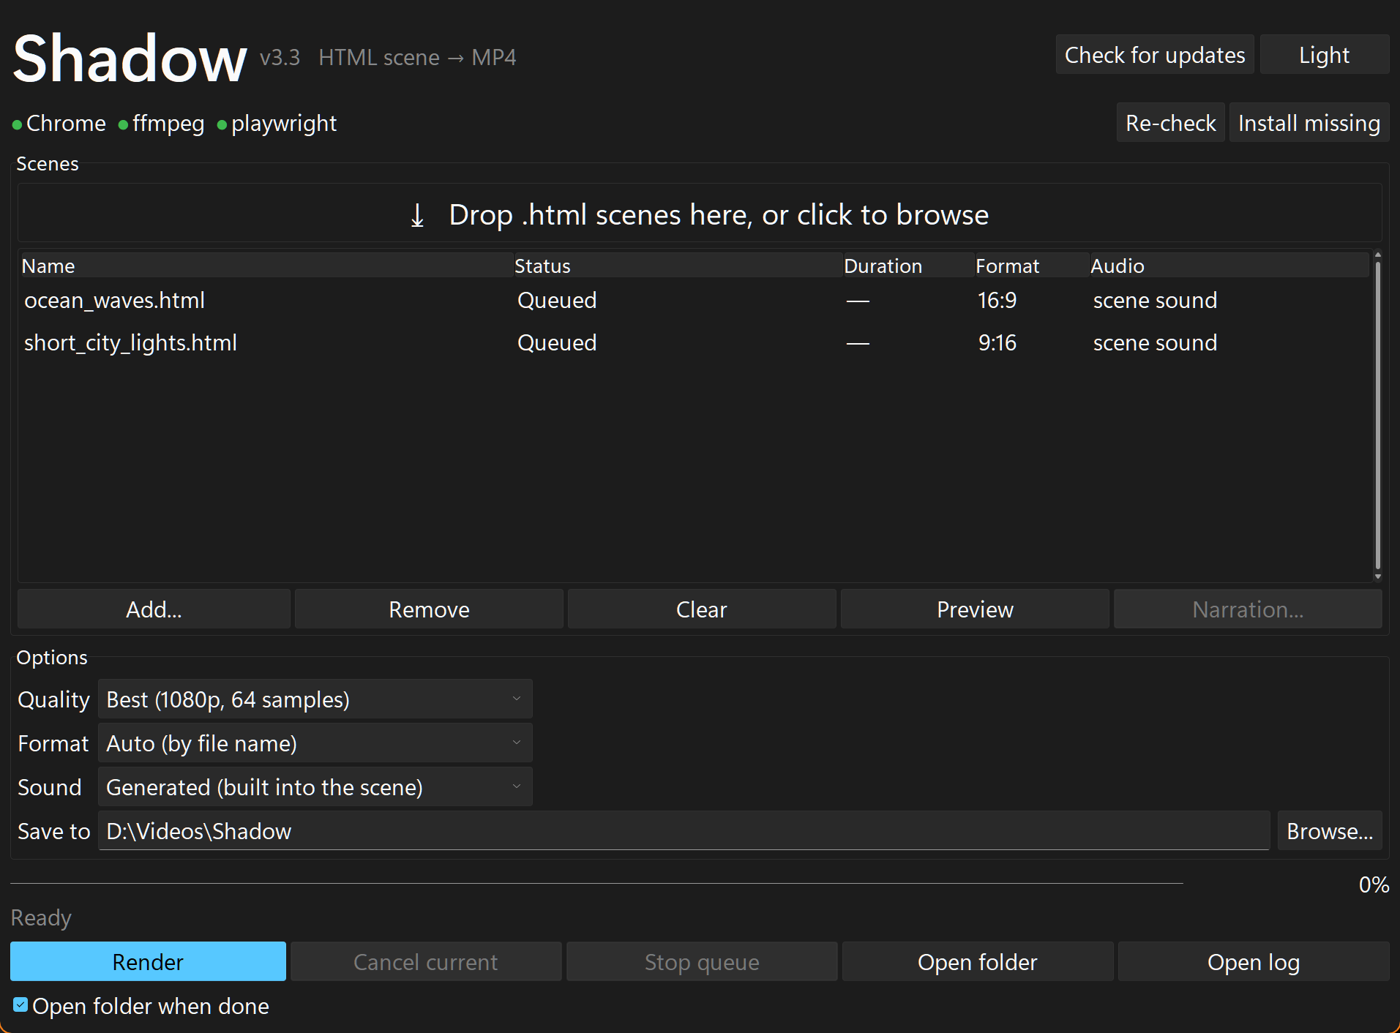
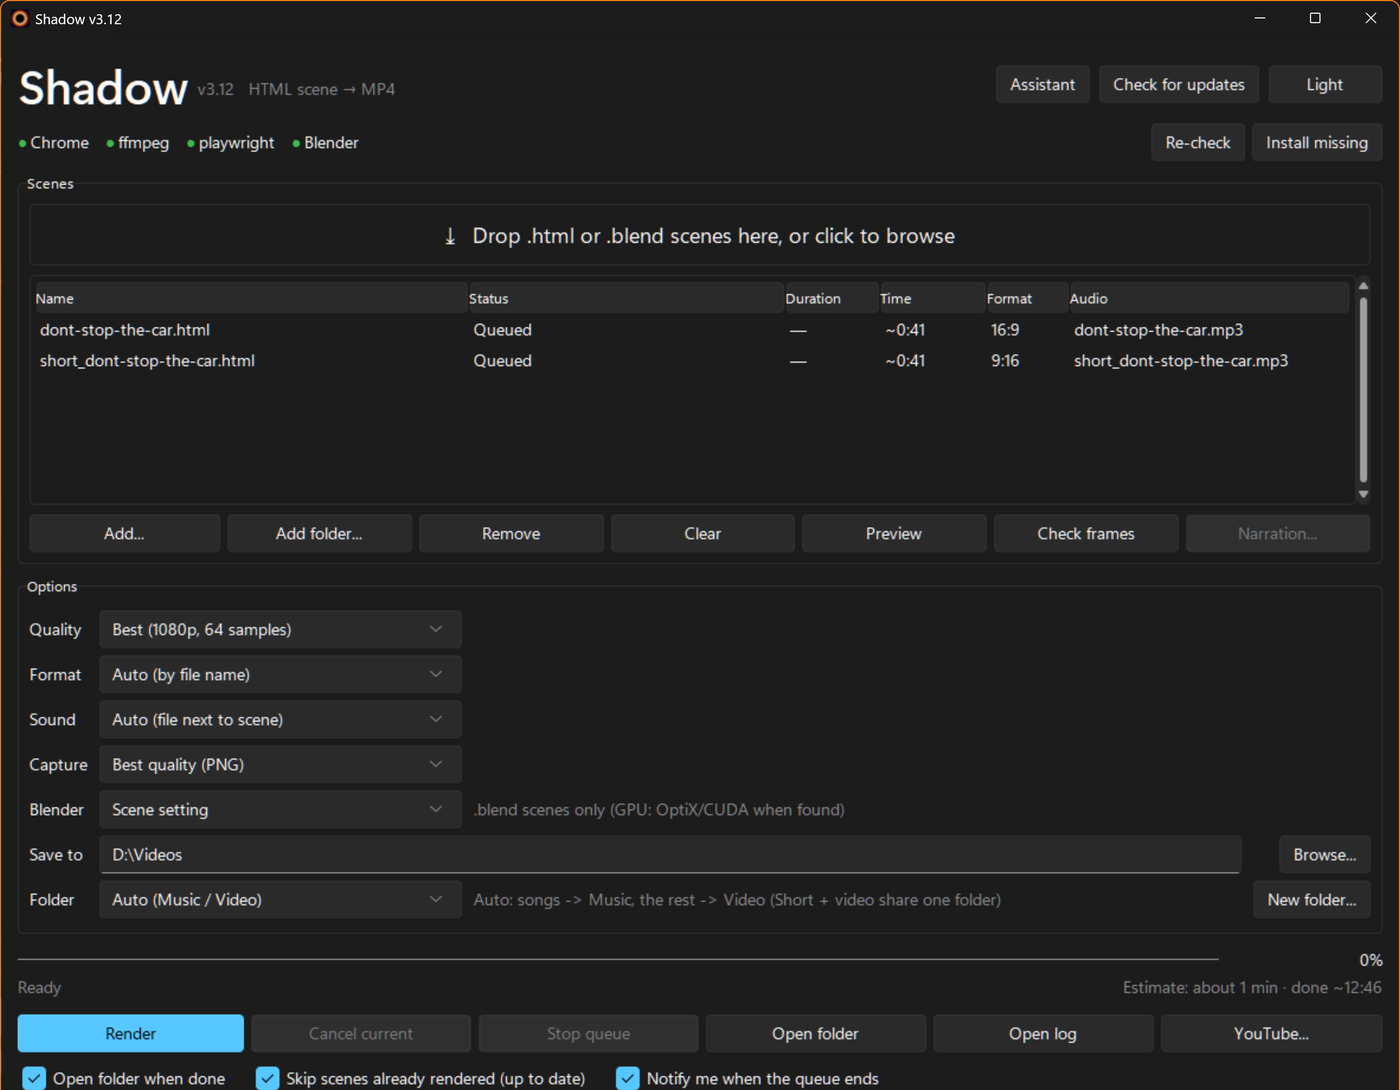
Docs: 3.12 screenshots

diff --git a/tools/publish_public.py b/tools/publish_public.py
@@ -15,7 +15,7 @@ PUBLIC = ['app.py', 'assistant.py', 'docs/ASSISTANT.md', 'render_core.py', 'blen
           'install.bat', 'build_exe.bat', 'build_installer.bat', 'release.bat', 'run.bat', 'publish_update.bat',
           'installer/shadow.iss', 'assets/shadow.ico', 'assets/shadow_1024.png', 'docs/screenshot.png',
           'tools/narrate/*', 'tools/publish_public.py', 'tools/publish_update.py', 'tests/*.py', 'tests/fixtures/*', 'tests/fixtures/qc/*',
-          'docs/GUIDE.md', 'youtube.py', 'docs/YOUTUBE.md', 'docs/PRIVACY.md']
+          'docs/GUIDE.md', 'youtube.py', 'docs/YOUTUBE.md', 'docs/PRIVACY.md', 'docs/screenshot_youtube.png']
 # matched by PUBLIC but kept private (they need the private channel tools)
 NOT_PUBLIC = ['tests/test_song_structure.py']
 

diff --git a/README.md b/README.md
@@ -60,11 +60,16 @@ Every button, option, output file and QC check is explained in the **[user guide
 | **Claude can run it** | A local MCP server lets Claude render, follow progress, preview frames and read QC reports for you. Works with other MCP clients too (Gemini CLI, Cursor, VS Code, ...). [Guide](docs/MCP.md) |
 | **Assistant panel** | Ask in plain words inside the app ("render this folder and check the quality") and watch Claude do it. Runs on your Claude subscription through Claude Code, no API key. [Guide](docs/ASSISTANT.md) |
 | **Safe and tidy** | Each scene gets its own output folder; nothing is ever overwritten (`_2`, `_3`); failed renders leave a log. |
-| **Free and offline** | No accounts, no paid services, nothing uploaded. Only your scenes' own CDN links (e.g. three.js) need the internet. |
+| **Free and offline** | No Shadow account, no paid services. Nothing leaves your PC unless you press *Upload* (to your own YouTube channel). Only your scenes' own CDN links (e.g. three.js) need the internet. |
 
 <p align="center">
-  <img src="docs/screenshot.png" alt="Shadow, dark theme" width="49%">
-  <img src="docs/screenshot_light.png" alt="Shadow, light theme" width="49%">
+  <img src="docs/screenshot.png" alt="Shadow 3.12, dark theme: a song video and its Short in the queue, Folder Auto (Music / Video)" width="49%">
+  <img src="docs/screenshot_light.png" alt="Shadow 3.12, light theme" width="49%">
+</p>
+
+<p align="center">
+  <img src="docs/screenshot_youtube.png" alt="Upload to YouTube: the rendered video and its Short with titles from metadata.txt" width="62%">
+  <br><sub><b>YouTube...</b> uploads the video and its Short with the title, description and tags from <code>metadata.txt</code> - <a href="docs/YOUTUBE.md">how to set it up</a>.</sub>
 </p>
 
 ## How it works

diff --git a/docs/YOUTUBE.md b/docs/YOUTUBE.md
@@ -23,6 +23,8 @@ the app is verified - choose *Advanced → Go to Shadow*.
 
 ## Use it
 
+![The YouTube... dialog with a song video and its Short](screenshot_youtube.png)
+
 1. Render your scenes as usual.
 2. Press **YouTube...** (next to *Open log*). The dialog lists the videos you just rendered for the selected rows (or all
    rows). **Add video...** picks any other mp4.
